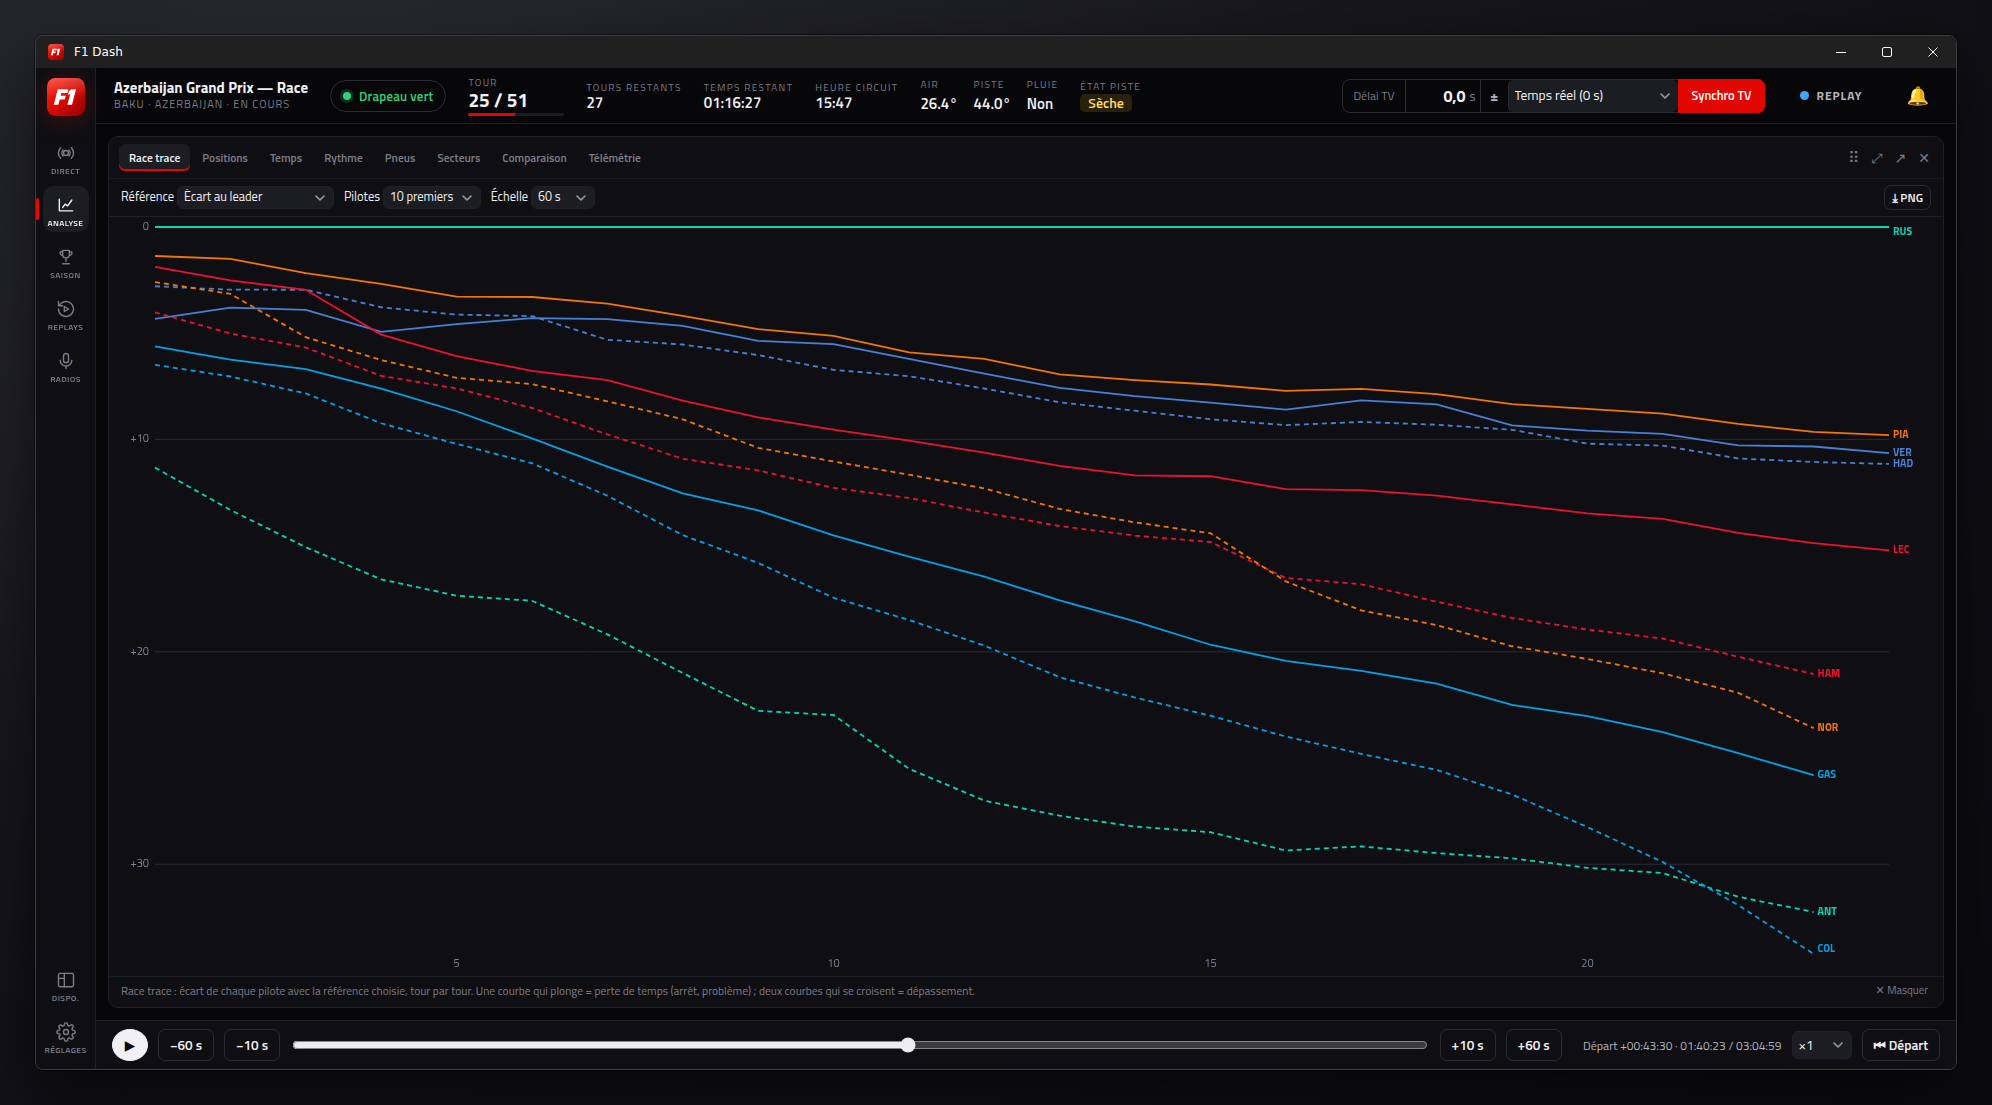
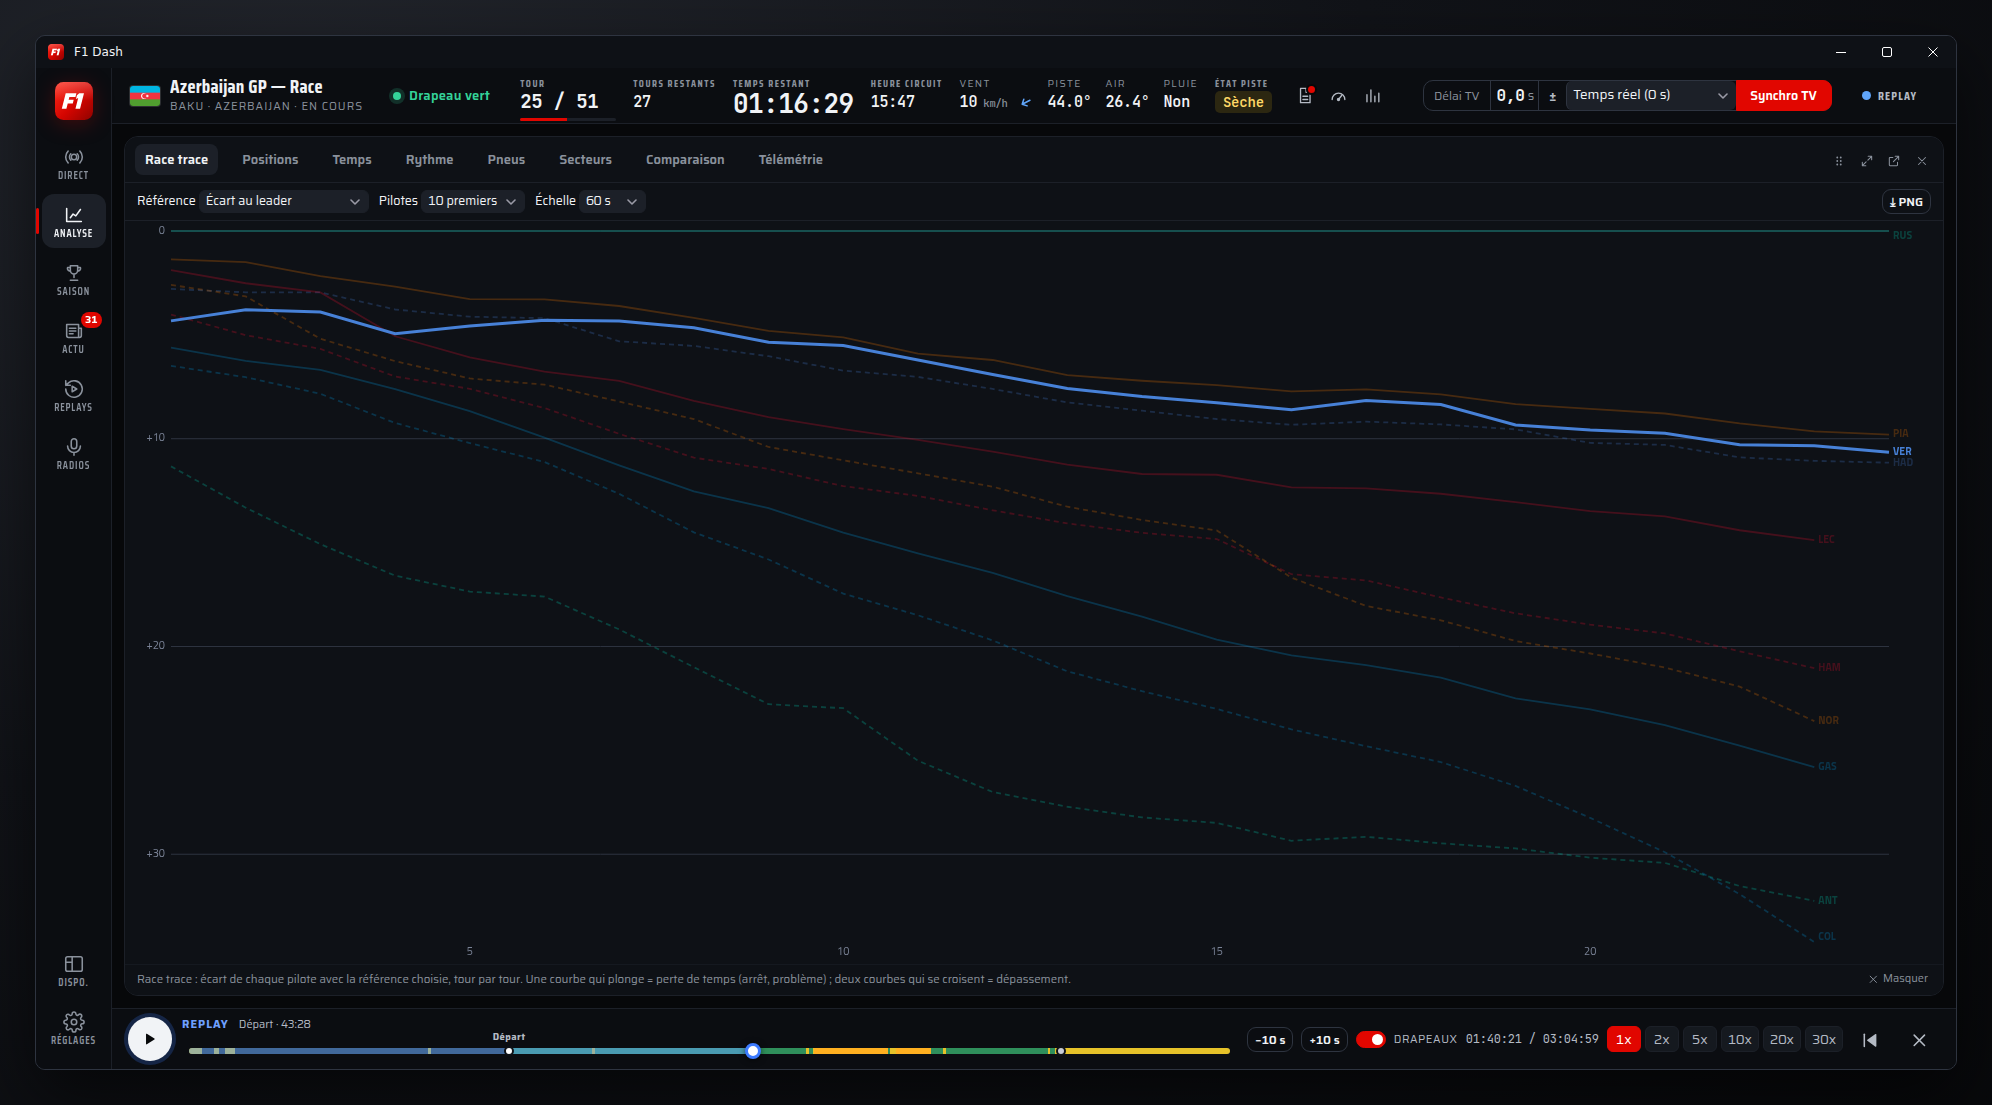
Captures d'écran au design Pitwall, nouvelle capture de l'espace Actu
- Toutes les captures du README refaites avec le design Pitwall
  (tableau de bord, classement, carte, analyse, Saison).
- Nouvelle capture de l'espace Actu (titres traduits en français).
- Planche des cinq designs (Pitwall ajouté) et téléphone avec l'Actu.
- README : espace Actu, cinq designs, légendes mises à jour.
- Colonne de droite de l'Actu : ses titres sont aussi traduits.

Claude-Session: https://claude.ai/code/session_01WgEz3ZSgjwLPy4E2f6uwb7

diff --git a/public/js/ui/news.js b/public/js/ui/news.js
@@ -274,6 +274,8 @@ function asideView(all) {
   const who = [...counts].filter(([t]) => t !== 'fia').sort((a, b) => b[1] - a[1]).slice(0, 8);
   const max = who[0]?.[1] || 1;
   const videos = all.filter((it) => it.kind === 'video' && it.img).slice(0, 4);
+  // Titres de la colonne traduits comme ceux du fil
+  for (const it of [...top.map((g) => g.lead), ...videos]) translate(it.title, it.lang);
   const topHtml = top.length ? top.map((g, i) => `<a class="nwa-top" href="${esc(g.lead.link)}" target="_blank" rel="noopener">
       <span class="nwa-rank">${i + 1}</span><span class="nwa-txt"><b>${esc(titleOf(g.lead).text)}</b>
       <span class="muted small">${g.sources} source${g.sources > 1 ? 's' : ''} · ${ago(g.t)}</span></span></a>`).join('')

diff --git a/README.md b/README.md
@@ -6,7 +6,7 @@ Dashboard **Formule 1 en direct** pour suivre chaque Grand Prix sur votre ordina
 
 ![F1 Dash pendant une course (replay du Grand Prix d'Azerbaïdjan 2026)](docs/screenshots/tableau-de-bord.png)
 
-<sub>Design « F1 Pro » (par défaut). Les designs précédents restent disponibles dans Réglages → Affichage (voir plus bas).</sub>
+<sub>Design « Pitwall » (par défaut). Les designs précédents restent disponibles dans Réglages → Affichage (voir plus bas).</sub>
 
 ## ✨ En bref
 
@@ -20,6 +20,7 @@ Dashboard **Formule 1 en direct** pour suivre chaque Grand Prix sur votre ordina
 - **Direction de course et enquêtes**, avec les documents officiels de la FIA.
 - **Radios d'équipe** retranscrites et traduites en français, sur votre ordinateur.
 - **Commentaires F1 TV Pro** ou radio de votre choix, synchronisés sur le dashboard.
+- **Espace Actu** : toute l'actualité de la F1 au même endroit (F1, FIA, chaînes officielles des écuries et des pilotes, une trentaine de médias en 8 langues), traduite en français, regroupée par sujet, avec alertes et anti-spoiler.
 - **Espace Saison** : calendrier, classements, notes des pilotes (S à F), écart en qualification entre coéquipiers, statistiques par pilote, régularité, arrêts, vitesses, profils des circuits, évolutions techniques et éléments moteur (documents FIA).
 - **Replays** de toutes les sessions archivées, disposition libre des panneaux, second écran.
 - **Sur votre téléphone ou tablette** : l'ordinateur affiche un QR code ; scannez-le pour retrouver le dashboard sur le réseau Wi-Fi de la maison, calé sur le même délai TV.
@@ -30,9 +31,11 @@ Dashboard **Formule 1 en direct** pour suivre chaque Grand Prix sur votre ordina
 | ![Analyse : rythme](docs/screenshots/analyse-rythme.png) | ![Saison : accueil](docs/screenshots/saison-accueil.png) |
 | ![Saison : fiche pilote](docs/screenshots/saison-pilote.png) | ![Saison : évolutions techniques](docs/screenshots/saison-evolutions-techniques.png) |
 
-**Quatre designs au choix** (Réglages → Affichage → Thème) : F1 Pro (par défaut), F1 sobre, Classique et Bleu nuit.
+![Espace Actu : l'actualité de la F1 traduite en français](docs/screenshots/actu.png)
 
-![Les quatre designs : F1 Pro, F1 sobre, Classique, Bleu nuit](docs/screenshots/themes.png)
+**Cinq designs au choix** (Réglages → Affichage → Thème) : Pitwall (par défaut), F1 Pro, F1 sobre, Classique et Bleu nuit.
+
+![Les cinq designs : Pitwall, F1 Pro, F1 sobre, Classique, Bleu nuit](docs/screenshots/themes.png)
 
 ## 🚀 Installation
 
@@ -66,7 +69,7 @@ Tout fonctionne sans compte. Avec F1 TV, connectez-vous dans ⚙ Réglages pour 
 
 Sur l'ordinateur : ⚙ Réglages → Application → **« Autoriser l'accès depuis le réseau local »**, puis scannez le QR code avec le téléphone (même Wi-Fi). Le téléphone reprend le délai TV de l'ordinateur et affiche un panneau à la fois, avec des onglets en bas. Pour l'avoir comme une appli : « Ajouter à l'écran d'accueil ». Détails dans le [guide](docs/GUIDE.md#-sur-téléphone-ou-tablette).
 
-![F1 Dash sur téléphone : classement, carte et analyse](docs/screenshots/telephone.png)
+![F1 Dash sur téléphone : classement, carte et actualités](docs/screenshots/telephone.png)
 
 ## ⌨ Raccourcis
 
